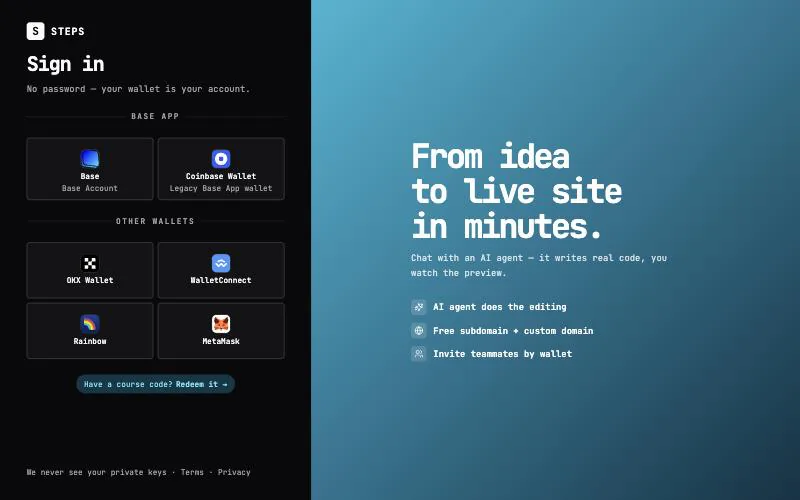
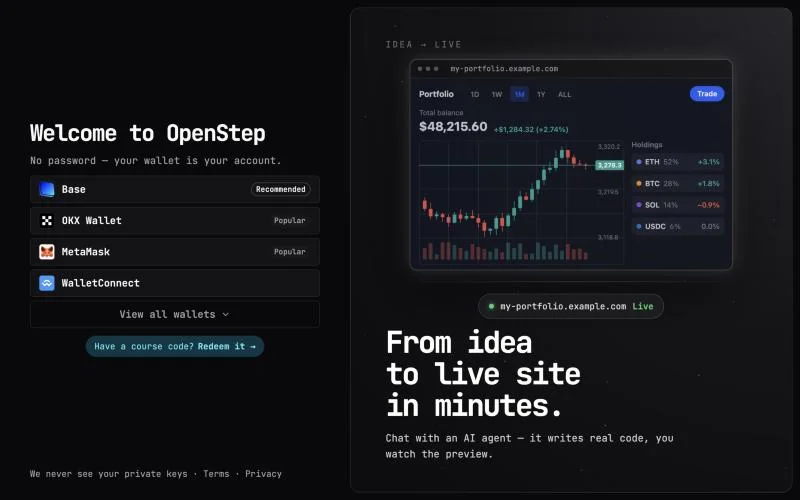
docs(start): describe the current sign-in page and retake its screenshot
The sign-in page no longer groups wallets under BASE APP and OTHER
WALLETS. It is titled "Welcome to OpenStep", lists Base, OKX Wallet,
MetaMask and WalletConnect first, and shows Coinbase Wallet and Rainbow
behind "View all wallets"; a detected extension shows "Installed".
Update the English page and the fr, ja, ko and zh-tw translations, and
replace sign-in-1.webp with an 800x500 capture of the prod login page.
Email and Google sign-in stay undocumented while they are off on prod.

Refs OpenStep/platform#31

diff --git a/src/content/docs/ja/start/sign-in.md b/src/content/docs/ja/start/sign-in.md
@@ -5,15 +5,15 @@ sidebar:
   order: 2
 ---
 
-[builder.openstep.academy](https://builder.openstep.academy) を開きます。ユーザー名もパスワードもなく、ウォレットがそのままアカウントになります。サインインしていない場合は **Sign in** ページが表示されます。
+[builder.openstep.academy](https://builder.openstep.academy) を開きます。ユーザー名もパスワードもなく、ウォレットがそのままアカウントになります。サインインしていない場合は、**Welcome to OpenStep** と表示されたサインインページが開きます。
 
-1. ウォレットを選びます。**BASE APP** の下に **Base**（Base Account）と **Coinbase Wallet**、**OTHER WALLETS** の下に **OKX Wallet**、**WalletConnect**、**Rainbow**、**MetaMask** が並んでいます。
+1. ウォレットを選びます。最初に **Base**、**OKX Wallet**、**MetaMask**、**WalletConnect** が並んでいます。**View all wallets** をクリックすると、**Coinbase Wallet**（Legacy Base App wallet）と **Rainbow** も表示されます。ブラウザにそのウォレットの拡張機能が入っている場合、その行には **Installed** と表示されます。
 2. ウォレットで接続を承認します。ページに **Approve the connection in your wallet.** と表示されます。
 3. ウォレットで署名リクエストを承認します。ページに **It's free — no transaction, no gas.** と表示されます。リクエストが届かない場合は **Send it again** をクリックします。
 
 署名が確認されると **Home** が開きます。別のページからサインインページに移動してきた場合は、そのページに戻ります。
 
-![Sign in ページ。BASE APP と OTHER WALLETS の下にウォレットが並び、コースコードを引き換えるリンクがある。](/images/start/sign-in-1.webp)
+![サインインページ。Welcome to OpenStep の下に 4 つのウォレットと View all wallets が並び、コースコードを引き換えるリンクがある。](/images/start/sign-in-1.webp)
 
 ## 知っておくこと
 

diff --git a/src/content/docs/ko/start/sign-in.md b/src/content/docs/ko/start/sign-in.md
@@ -5,15 +5,15 @@ sidebar:
   order: 2
 ---
 
-[builder.openstep.academy](https://builder.openstep.academy)를 엽니다. 사용자 이름이나 비밀번호는 없습니다. 지갑이 곧 계정입니다. 로그인하지 않았다면 **Sign in** 페이지로 이동합니다.
+[builder.openstep.academy](https://builder.openstep.academy)를 엽니다. 사용자 이름이나 비밀번호는 없습니다. 지갑이 곧 계정입니다. 로그인하지 않았다면 **Welcome to OpenStep**이라고 표시된 로그인 페이지로 이동합니다.
 
-1. 지갑을 고릅니다. **BASE APP** 아래에 **Base**(Base Account)와 **Coinbase Wallet**이 있고, **OTHER WALLETS** 아래에 **OKX Wallet**, **WalletConnect**, **Rainbow**, **MetaMask**가 있습니다.
+1. 지갑을 고릅니다. 처음에는 **Base**, **OKX Wallet**, **MetaMask**, **WalletConnect**가 보입니다. **View all wallets**를 클릭하면 **Coinbase Wallet**(Legacy Base App wallet)과 **Rainbow**도 나타납니다. 브라우저에 그 지갑의 확장 프로그램이 이미 설치되어 있으면 해당 행에 **Installed** 표시가 붙습니다.
 2. 지갑에서 연결을 승인합니다. 페이지에 **Approve the connection in your wallet.** 문구가 나타납니다.
 3. 지갑에서 서명 요청을 승인합니다. 페이지에 **It's free — no transaction, no gas.** 문구가 나타납니다. 요청이 보이지 않으면 **Send it again**을 클릭합니다.
 
 서명이 확인되면 **Home**으로 이동합니다. 다른 페이지에서 로그인 페이지로 넘어왔다면 그 페이지로 돌아갑니다.
 
-![Sign in 페이지: BASE APP과 OTHER WALLETS 아래에 지갑이 나열되어 있고, 코스 코드를 사용하는 링크가 있습니다.](/images/start/sign-in-1.webp)
+![로그인 페이지: Welcome to OpenStep 아래에 지갑 네 개와 View all wallets가 있고, 코스 코드를 사용하는 링크가 있습니다.](/images/start/sign-in-1.webp)
 
 ## 알아 두기
 

diff --git a/src/content/docs/fr/start/sign-in.md b/src/content/docs/fr/start/sign-in.md
@@ -5,15 +5,15 @@ sidebar:
   order: 2
 ---
 
-Ouvrez [builder.openstep.academy](https://builder.openstep.academy). Il n'y a ni identifiant ni mot de passe : votre wallet est votre compte. Si vous n'êtes pas connecté, vous arrivez sur la page **Sign in**.
+Ouvrez [builder.openstep.academy](https://builder.openstep.academy). Il n'y a ni identifiant ni mot de passe : votre wallet est votre compte. Si vous n'êtes pas connecté, vous arrivez sur la page de connexion, intitulée **Welcome to OpenStep**.
 
-1. Choisissez un wallet. **Base** (Base Account) et **Coinbase Wallet** sont listés sous **BASE APP** ; **OKX Wallet**, **WalletConnect**, **Rainbow** et **MetaMask** sont sous **OTHER WALLETS**.
+1. Choisissez un wallet. **Base**, **OKX Wallet**, **MetaMask** et **WalletConnect** sont listés en premier. Cliquez sur **View all wallets** pour voir aussi **Coinbase Wallet** (Legacy Base App wallet) et **Rainbow**. Si votre navigateur a déjà l'extension d'un wallet, la ligne de ce wallet porte la mention **Installed**.
 2. Approuvez la connexion dans votre wallet. La page affiche **Approve the connection in your wallet.**
 3. Approuvez la demande de signature dans votre wallet. La page affiche **It's free — no transaction, no gas.** Si la demande n'apparaît pas, cliquez sur **Send it again**.
 
 Une fois votre signature vérifiée, vous arrivez sur **Home**. Si vous aviez été envoyé vers la page de connexion depuis une autre page, vous revenez à cette page.
 
-![La page Sign in : des wallets listés sous BASE APP et OTHER WALLETS, et un lien pour utiliser un code de cours.](/images/start/sign-in-1.webp)
+![La page de connexion : Welcome to OpenStep, quatre wallets avec View all wallets en dessous, et un lien pour utiliser un code de cours.](/images/start/sign-in-1.webp)
 
 ## À savoir
 

diff --git a/src/content/docs/zh-tw/start/sign-in.md b/src/content/docs/zh-tw/start/sign-in.md
@@ -5,15 +5,15 @@ sidebar:
   order: 2
 ---
 
-開啟 [builder.openstep.academy](https://builder.openstep.academy)。這裡沒有使用者名稱或密碼：你的錢包就是你的帳號。如果還沒登入，你會進入 **Sign in** 頁面。
+開啟 [builder.openstep.academy](https://builder.openstep.academy)。這裡沒有使用者名稱或密碼：你的錢包就是你的帳號。如果還沒登入，你會進入標題為 **Welcome to OpenStep** 的登入頁面。
 
-1. 選擇一個錢包。**Base**（Base Account）和 **Coinbase Wallet** 列在 **BASE APP** 底下；**OKX Wallet**、**WalletConnect**、**Rainbow** 和 **MetaMask** 在 **OTHER WALLETS** 底下。
+1. 選擇一個錢包。最前面列出 **Base**、**OKX Wallet**、**MetaMask** 和 **WalletConnect**。點選 **View all wallets** 還會看到 **Coinbase Wallet**（Legacy Base App wallet）和 **Rainbow**。如果瀏覽器已經裝了該錢包的擴充功能，那一列會標示 **Installed**。
 2. 在錢包裡核准連線。頁面會顯示 **Approve the connection in your wallet.**
 3. 在錢包裡核准簽署請求。頁面會顯示 **It's free — no transaction, no gas.** 如果請求沒有跳出來，請點選 **Send it again**。
 
 簽章驗證通過後，你會進入 **Home**。如果你是從其他頁面被帶到登入頁，則會回到那個頁面。
 
-![Sign in 頁面：錢包分列在 BASE APP 與 OTHER WALLETS 底下，另有一個兌換課程代碼的連結。](/images/start/sign-in-1.webp)
+![登入頁面：Welcome to OpenStep 底下列出四個錢包和 View all wallets，另有一個兌換課程代碼的連結。](/images/start/sign-in-1.webp)
 
 ## 注意事項
 

diff --git a/src/content/docs/start/sign-in.md b/src/content/docs/start/sign-in.md
@@ -5,15 +5,15 @@ sidebar:
   order: 2
 ---
 
-Open [builder.openstep.academy](https://builder.openstep.academy). There is no username or password: your wallet is your account. If you are not signed in, you land on the **Sign in** page.
+Open [builder.openstep.academy](https://builder.openstep.academy). There is no username or password: your wallet is your account. If you are not signed in, you land on the sign-in page, titled **Welcome to OpenStep**.
 
-1. Pick a wallet. **Base** (Base Account) and **Coinbase Wallet** are listed under **BASE APP**; **OKX Wallet**, **WalletConnect**, **Rainbow** and **MetaMask** are under **OTHER WALLETS**.
+1. Pick a wallet. **Base**, **OKX Wallet**, **MetaMask** and **WalletConnect** are listed first. Click **View all wallets** to also see **Coinbase Wallet** (Legacy Base App wallet) and **Rainbow**. If your browser already has a wallet's extension, that wallet's row is marked **Installed**.
 2. Approve the connection in your wallet. The page says **Approve the connection in your wallet.**
 3. Approve the signature request in your wallet. The page says **It's free — no transaction, no gas.** If the request does not show up, click **Send it again**.
 
 After your signature is verified you land on **Home**. If you were sent to the sign-in page from another page, you return to that page instead.
 
-![The Sign in page: wallets listed under BASE APP and OTHER WALLETS, and a link to redeem a course code.](/images/start/sign-in-1.webp)
+![The sign-in page: Welcome to OpenStep, four wallets with View all wallets below them, and a link to redeem a course code.](/images/start/sign-in-1.webp)
 
 ## Good to know
 
